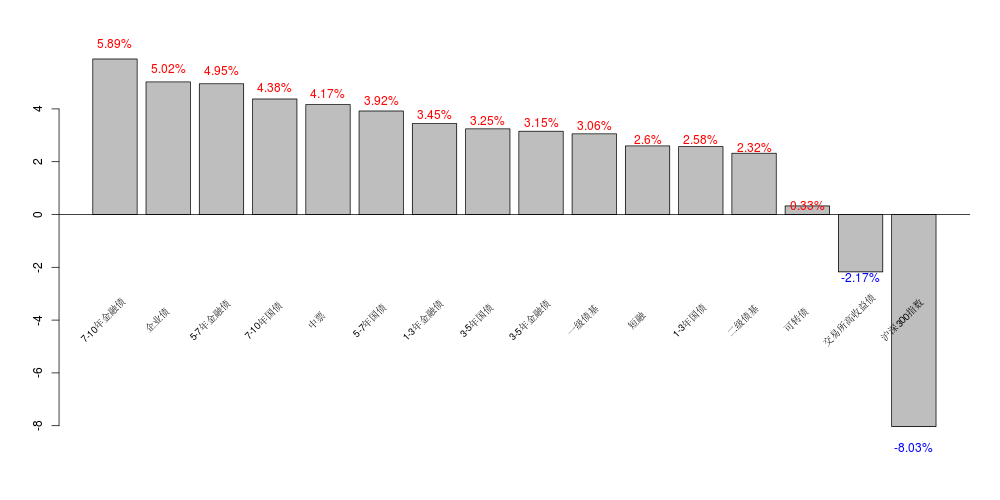
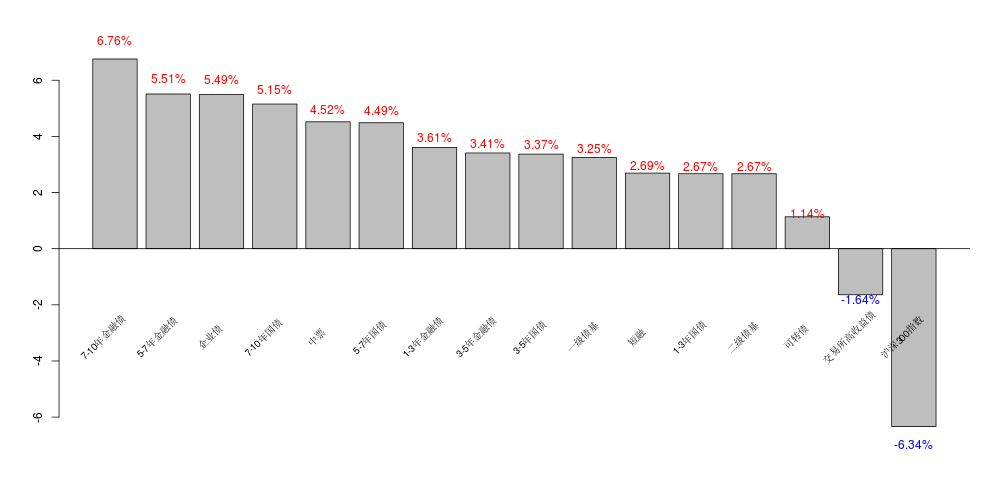
更新博客文章

diff --git a/source/_posts/四月份融资数据点评.md b/source/_posts/四月份融资数据点评.md
@@ -1,0 +1,174 @@
+title: 2014-04融资数据分析
+date: 2014-05-14 14:10:12 
+author: Weilin Lin
+categories:
+- 宏观经济
+---
+
+
+
+
+## 数据点评
+
+从四月份公布的数据来看，社会融资总量1.55万亿，新增人民币贷款7747亿。非标方面，新增委托贷款在3月份飙升之后有了明显回落，新增信托贷款也有较为明显的下行。信托贷款相比于去年同时间段内大幅下行。加总起来，四月份非标融资规模同比去年减小54.32%。从上市银行的资产负债表的分析也可以看出，虽然非标占比在生息资产的比重仍有所增加。但是非标存量的增加已经告别了2013年的高增长时期了。从这方面看的话，也许今年的资金面不会出现像去年那么大的压力。
+
+社会融资数据事实上反应的全社会资产负债表净扩张的速度，从当前的形势看的话，以减少非标规模为代表的资产扩张放缓行为已经出现，信用供给增量的较小必然导致两个问题：一是实体经济的放缓（由于total spending的减小），二是产生债务。关于为什么银行会改变其资产扩张的行为，最主要还是有两点，一是去年央行的两次“钱荒”事件给银行体系的信用扩张的安全性提出了挑战，第二则是今年以来房地产的走弱引起了银行体系自身对于实体经济的担忧从而出现自发减少资产扩张的行为。
+
+
+
+
+
+
+
+**图 1：社融1.55万亿，同比减小两千亿 ** 
+* ------------------------------------- *
+![社会融资分析](/images/totalFinance.png)
+* ------------------------------------- *
+资料来源：Wind,COS Inv系统
+
+**图 2：新增人民币贷款7747亿，同比减小200亿 ** 
+* ------------------------------------- *
+![社会融资分析](/images/newLoan.png)
+* ------------------------------------- *
+资料来源：Wind,COS Inv系统
+
+
+新增债券融资方面，四月份的债券融资创下了历史新高，达到3663亿，这其中有一部分可能跟今年一季度发行量较小有关（当时利率水平还没下来太多），所以可以确信的一点就是随着收益率曲线的继续下行，债券的供给量必然会急剧的增加，这一点对于债券市场而言是个利空。我们预计今年如果说监管层对于非标监管的态度越来越明确的话，那么更多的融资需求将会通过债券融资满足。
+
+
+**图 3：新增债券融资创历史新高 ** 
+* ------------------------------------- *
+![社会融资分析](/images/社融新增债券融资.png)
+* ------------------------------------- *
+资料来源：Wind,COS Inv系统
+
+
+**图 4：新增委托贷款有回落趋势** 
+* ------------------------------------- *
+![社会融资分析](/images/entrustedLoan.png)
+* ------------------------------------- *
+资料来源：Wind,COS Inv系统
+
+**图 5：新增信托贷款也有明显回落** 
+* ------------------------------------- *
+![社会融资分析](/images/trstedLoan.png)
+* ------------------------------------- *
+资料来源：Wind,COS Inv系统
+
+加总社会融资数据里面的委托贷款、信托贷款和票据融资可以发现，今年非标的扩张速度相比于去年的减小非常的明显，同比规模腰斩。
+
+**图 6：社融非标** 
+* ------------------------------------- *
+![社会融资分析](/images/社融非标.png)
+* ------------------------------------- *
+资料来源：Wind,COS Inv系统
+
+
+**图 7：非标类融资同比变化情况** 
+* ------------------------------------- *
+![社会融资分析](/images/社融非标同比.png)
+* ------------------------------------- *
+资料来源：Wind,COS Inv系统
+
+
+
+## 关于M2数据异常的解释
+### M2的来源分解
+根据目前的实际国情：M2的来源主要来自于四个，一是外汇占款、二是银行贷款派生的存款、三是财政存款、四是同业和理财等类信贷业务。这四个来源中，第四个比较难以度量，前三个都可以找到数据。根绝这几个分解，我们计算了历史上每个月的M2的变化量和这三者之间的关系，得到的情况如下：
+
+
+
+
+
+**图 8：M2变化季节性规律** 
+* ------------------------------------- *
+![M2变化](/images/M2变化季节性规律.png)
+* ------------------------------------- *
+资料来源：Wind,COS Inv系统
+
+
+**图 9：M2变化来源分项季节性规律** 
+* ------------------------------------- *
+![M2变化](/images/M2来源分解季节性规律.png)
+* ------------------------------------- *
+资料来源：Wind,COS Inv系统
+
+
+**图 10：M2实际变化和预测结果对比** 
+* ------------------------------------- *
+![M2变化](/images/M2实际变化和预测结果对比.png)
+* ------------------------------------- *
+资料来源：Wind,COS Inv系统
+
+
+**图 11：预测残差的季节性规律_金融机构口径 ** 
+* ------------------------------------- *
+![M2变化](/images/预测残差的季节性规律_金融机构口径.png)
+* ------------------------------------- *
+资料来源：Wind,COS Inv系统
+
+
+**图 12：预测残差的季节性规律_央行口径 ** 
+* ------------------------------------- *
+![M2变化](/images/预测残差的季节性规律_央行口径.png)
+* ------------------------------------- *
+资料来源：Wind,COS Inv系统
+
+### M2变化和金融机构存款变化的背离
+
+
+
+
+从四月份公布的数据可以看出，M2相比3月份增加8812亿，但是从人民银行的金融机构信贷收支表看出的各项存款的变化却是减小了6千多亿，按理来说M2的大部分是存款，因此两者的变化应该差不多才对，为什么四月份出现了如此大的偏离，很有必要研究一下这个偏离是否包含了一些有用的信息。根据央行公布的M2的计算规则来看，货币的持有部门应该包括：
+* 所有非金融性公司。
+* **中央政府以外**的其他政府单位。
+* 住户和为住户提供服务的非营利性机构。
+* 金融性公司部门中除存款性公司（即中央银行和其它存款性公司）之外的所有机构单位。
+
+纳入广义货币的部门**应该满足其持有行为容易受到货币政策的影响**，并且这种影响会进一步对宏观经济产生影响。所以从这点出发来看的话，中央政府持有的存款不包括在货币统计总量之内，这是因为中央政府的存款并不像货币持有部门那样易受货币政策的影响，而是由中央政府的融资约束、支出决定的。就是说，中央政府的存款受其发行债券、透支、税收等筹集资金以及对这些资金应用的共同影响，其对经济增长的影响由相应的财政政策所决定的。如果从金融机构人民币信贷收支表出发的话，那么可以估算广义货币M2的一个近似公式是：
+** M2 = 各项存款总额 - 财政存款 - 不纳入广义货币存款 - 委托贷款（2011年以前）+ 流通中现金 + 证券保证金 **
+从数据中我们可以看到各项存款总额变化和M2变化上有两点比较明显的现象，一个是2011年10月份的时候两者的偏离出现了一个最大值，那时是因为当时M2口径明显扩大，纳入了住房公积金中心存款，以及**非存款类金融机构在存款类金融机构的存款（这里面包括了货币基金）**，另外一个明显的规律就是季末的时候两者也比较容易出现偏离，最主要的原因在于表外业务进表对于存款的影响，四月份的数据，各个分项变化的情况是：
+
+* M2：增加8112.62亿
+* 各项存款总额：减小6522亿
+* 财政存款：增加5621亿
+* M0流通中现金：增加270亿
+* 证券保证金：根据信贷收支表里面的保证金存款估算的话，虽然四月份数据还没有出来，根据历史规律看的话，变动在1000亿-2000亿左右的规模。
+
+根据上面的分项推算的话，那么**M2的变化和等式右边的变化就差了将近2万亿的规模，** 这种情况只有在2011年10月份的时候有过（当时计算的变化误差超过3万亿），所以我们猜测造成这种偏离的原因很有可能是M2计算的口径调整。券商有人认为说这个误差来自于表外进出表的扰动影响，但是我个人认为不足以解释这么大的偏差，因为根据其它存款性公司负债表中对其它金融公司债券的分项计算的话进出表的规模一般也就在7000亿左右的规模（况且今年三月份看的话进表的规模小于去年，那么四月份出表的规模也要小于去年）。
+
+
+**图 13：M2变化和金融机构存款变化发生背离 ** 
+* ------------------------------------- *
+![M2变化](/images/M2变化和金融机构存款变化对比.png)
+* ------------------------------------- *
+资料来源：Wind,COS Inv系统
+
+
+**图 14：M2变化和测算结果偏离 ** 
+* ------------------------------------- *
+![M2变化](/images/M2变化和测算结果偏离.png)
+* ------------------------------------- *
+资料来源：Wind,COS Inv系统
+
+
+**图 15：保证金存款季节性.png ** 
+* ------------------------------------- *
+![M2变化](/images/保证金存款季节性.png)
+* ------------------------------------- *
+资料来源：Wind,COS Inv系统
+
+
+**图 16：银行表外进表季节性估算.png ** 
+* ------------------------------------- *
+![M2变化](/images/银行表外进表季节性估算.png)
+* ------------------------------------- *
+资料来源：Wind,COS Inv系统
+
+
+
+
+
+
+
+

diff --git a/source/_posts/高收益债组合优化和回测.md b/source/_posts/高收益债组合优化和回测.md
@@ -1,0 +1,15 @@
+title: 高收益债组合优化和回测
+date: 2014-05-14 14:51:41 
+author: Weilin Lin
+categories:
+- 债券货币市场
+- 高收益债
+---
+
+
+
+
+##  组合优化
+### 组合模型设计
+假设我们要求解的变量为每个高收益债在交易日应持有的股数，假设变量为$$x\_\{i}, i = 1...n$$
+

diff --git a/source/_posts/债券市场回顾.md b/source/_posts/债券市场回顾.md
@@ -1,5 +1,5 @@
-title: 中国债券市场日报: 2014-05-11 
-date: 2014-05-11 14:33:21 
+title: 中国债券市场日报: 2014-05-14 
+date: 2014-05-14 14:22:02 
 author: Weilin Lin
 categories:
 - 金融市场报告
